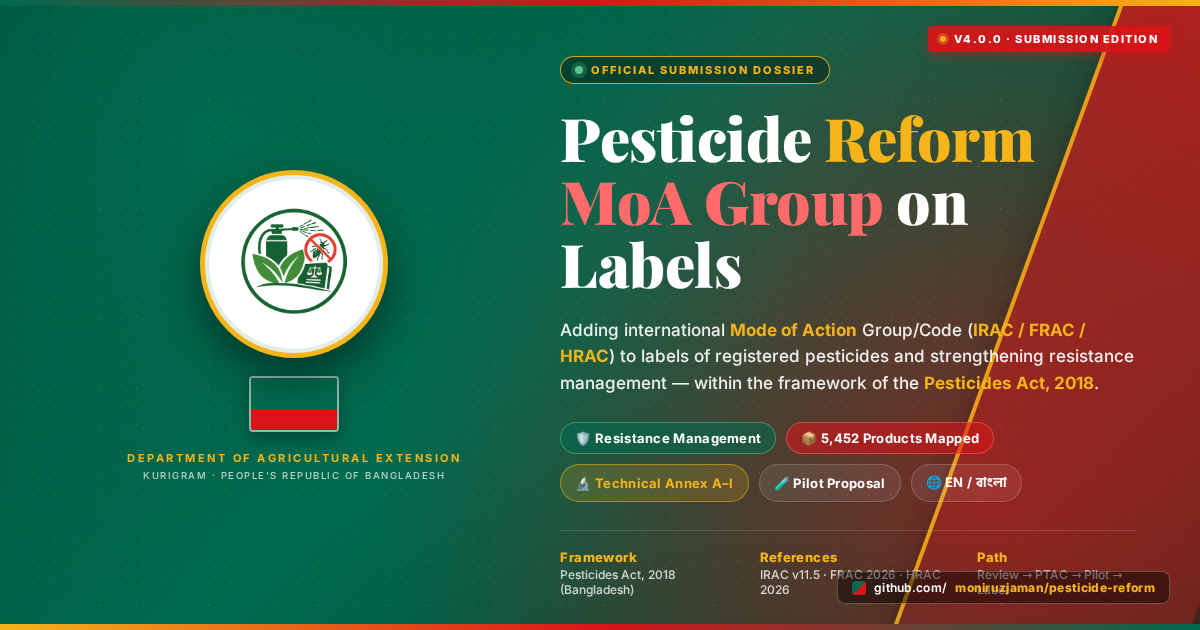
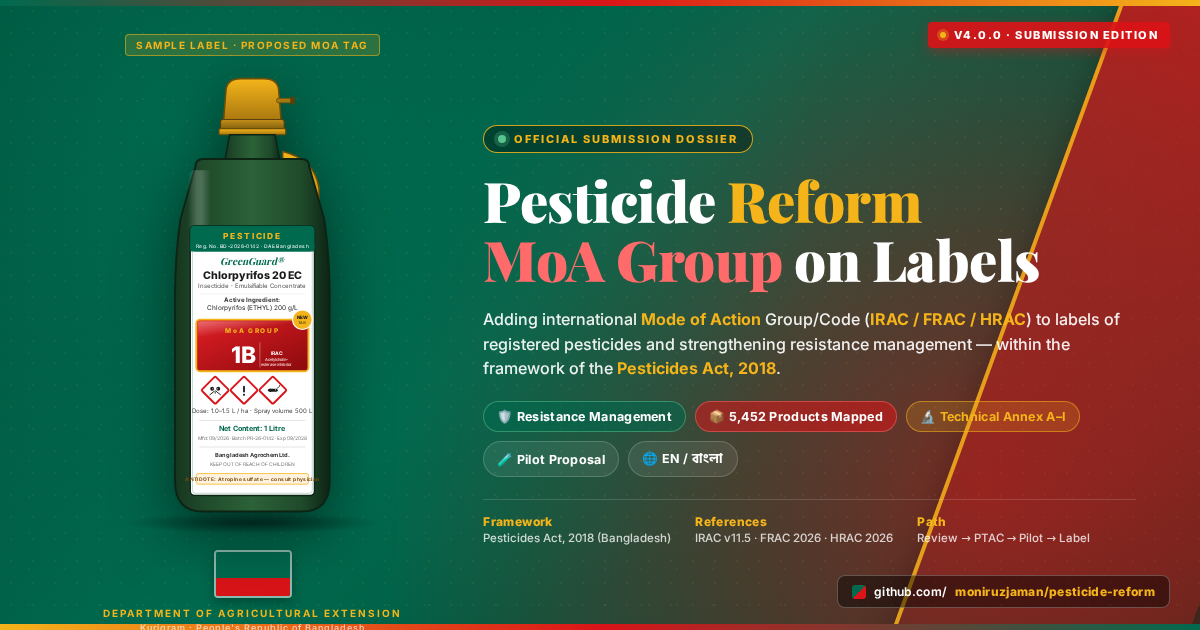
feat: pesticide bottle SVG with sample MoA label + WhatsApp/Messenger OG tags
pesticide-bottle-moa.svg (new):
- Browser-usable SVG illustration of a pesticide spray bottle (Chlorpyrifos 20 EC)
- Sample MoA Group badge prominently shows 'IRAC 1B' (Acetylcholinesterase inhibitor)
- Bangladesh-themed: green (#006A4E) body, gold (#F4B41A) cap, red (#DA1418) MoA badge
- Full label elements: header band, brand, product name, active ingredient, MoA badge
  (with 'NEW TAG' corner indicator), GHS pictograms, dose, net content, manufacturer,
  KEEP OUT OF REACH OF CHILDREN, antidote strip

social-preview.png (regenerated):
- LEFT side now features the pesticide bottle SVG (replacing the small crest logo)
- Bottle is the focal visual demonstrating exactly what the reform proposes:
  a registered pesticide label with the MoA Group/Code tag visible at a glance
- Caption chip 'Sample Label · Proposed MoA Tag' clarifies context
- BD flag + DAE authority text retained below the bottle
- RIGHT side unchanged: title, IRAC/FRAC/HRAC pills, meta, repo chip, v4.0.0 stamp
- Still 1200x630 PNG

index.html (OG meta tags for WhatsApp / Messenger / Facebook / Twitter):
- og:image switched from relative path to absolute raw.githubusercontent.com URL
  (WhatsApp + Messenger scrapers require absolute image URLs)
- Added og:url, og:site_name, og:locale (en_US + bn_BD alternate)
- Added og:image:secure_url, og:image:type, og:image:alt for richer card rendering
- Twitter card upgraded with twitter:image:alt + twitter:site
- image_src and apple-touch-icon links retained
[…]

diff --git a/index.html b/index.html
@@ -8,19 +8,32 @@
 <meta name="theme-color" content="#006A4E">
 <meta name="author" content="Abu Md Moniruzjaman, DAE Kurigram">
 
-<!-- Open Graph / Social Media Preview (1200x630) -->
+<!-- Open Graph / Social Media Preview (1200x630) — WhatsApp / Messenger / Facebook / Twitter -->
 <meta property="og:type" content="website">
+<meta property="og:site_name" content="Pesticide Reform — DAE Kurigram">
+<meta property="og:url" content="https://github.com/moniruzjaman/pesticide-reform">
 <meta property="og:title" content="Pesticide Reform — MoA Group/Code on Pesticide Labels (Submission Dossier v4.0.0)">
 <meta property="og:description" content="Adding international Mode of Action (IRAC/FRAC/HRAC) Group/Code to labels of registered pesticides under the Pesticides Act, 2018 — DAE Kurigram submission dossier.">
-<meta property="og:image" content="social-preview.png">
+<meta property="og:image" content="https://raw.githubusercontent.com/moniruzjaman/pesticide-reform/main/social-preview.png">
+<meta property="og:image:secure_url" content="https://raw.githubusercontent.com/moniruzjaman/pesticide-reform/main/social-preview.png">
+<meta property="og:image:type" content="image/png">
 <meta property="og:image:width" content="1200">
 <meta property="og:image:height" content="630">
-<meta property="og:image:alt" content="Pesticide Reform — Bangladesh green & red themed social preview">
+<meta property="og:image:alt" content="Pesticide Reform — Bangladesh green & red themed social preview with sample pesticide label showing MoA Group IRAC 1B">
+<meta property="og:locale" content="en_US">
+<meta property="og:locale:alternate" content="bn_BD">
+
+<!-- Twitter / X Card -->
 <meta name="twitter:card" content="summary_large_image">
+<meta name="twitter:site" content="@pesticide_reform">
 <meta name="twitter:title" content="Pesticide Reform — MoA Group on Labels (Submission Dossier v4.0.0)">
 <meta name="twitter:description" content="IRAC/FRAC/HRAC MoA Group/Code integration in pesticide labels — DAE Kurigram submission dossier.">
-<meta name="twitter:image" content="social-preview.png">
-<link rel="image_src" href="social-preview.png">
+<meta name="twitter:image" content="https://raw.githubusercontent.com/moniruzjaman/pesticide-reform/main/social-preview.png">
+<meta name="twitter:image:alt" content="Pesticide Reform — sample pesticide label with MoA Group IRAC 1B">
+
+<!-- WhatsApp / Messenger hint: image_src legacy -->
+<link rel="image_src" href="https://raw.githubusercontent.com/moniruzjaman/pesticide-reform/main/social-preview.png">
+<link rel="apple-touch-icon" href="pesticide-reform.jpeg">
 
 <!--
   ============================================================================
@@ -527,6 +540,16 @@
         </div>
       </div>
       <p class="draft-note" data-en="Final wording shall be determined subject to the technical review and approved label requirements of the concerned regulatory authority.">Final wording অবশ্যই সংশ্লিষ্ট regulatory authority-এর technical review ও approved label requirement অনুযায়ী নির্ধারিত হবে।</p>
+
+      <!-- Visual mock: full pesticide-bottle illustration with MoA Group badge -->
+      <figure class="bottle-illustration" style="margin:18px auto 6px;text-align:center;max-width:340px;">
+        <div style="display:inline-block;background:#f8fafc;border:1px solid var(--border);border-radius:10px;padding:14px;box-shadow:var(--shadow)">
+          <img src="pesticide-bottle-moa.svg" alt="Sample pesticide bottle label showing the proposed MoA Group IRAC 1B badge (Chlorpyrifos 20 EC). Illustrative draft only." style="width:240px;height:auto;display:block;margin:0 auto;" loading="lazy">
+        </div>
+        <figcaption class="draft-note" data-en="Illustrative draft only — sample product, registration number and manufacturer are fictional and shown for label-design demonstration. Final design subject to PTAC approval." style="margin-top:8px;font-size:11px;color:#94a3b8;font-style:italic;">
+          খসড়া চিত্রণ মাত্র — পণ্য, নিবন্ধন নং ও প্রস্তুতকারক নাম কাল্পনিক; শুধু label-design প্রদর্শনের জন্য। চূড়ান্ত রূপ PTAC অনুমোদনের অধীন।
+        </figcaption>
+      </figure>
 
       <h3 class="cn-h" data-en="6. Pilot">৬. Pilot</h3>
       <p class="cn-p" data-en="Important crops such as rice, eggplant, tomato, chili and cucumber may initially be considered as pilot crops. Under the pilot the following will be examined:">প্রাথমিকভাবে ধান, বেগুন, টমেটো, মরিচ ও শসার মতো গুরুত্বপূর্ণ ফসলকে pilot crop হিসেবে বিবেচনা করা যেতে পারে। Pilot-এর আওতায় পরীক্ষা করা হবে—</p>
